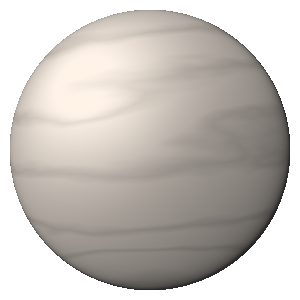
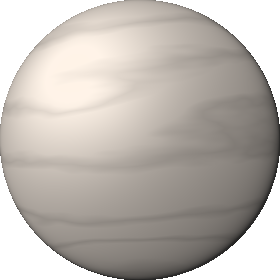
crop images

Changed region(s): [[0.0, 0.0, 1.0, 1.0]]

diff --git a/bundle.js b/bundle.js
@@ -1,6 +1,7 @@
 (function e(t,n,r){function s(o,u){if(!n[o]){if(!t[o]){var a=typeof require=="function"&&require;if(!u&&a)return a(o,!0);if(i)return i(o,!0);var f=new Error("Cannot find module '"+o+"'");throw f.code="MODULE_NOT_FOUND",f}var l=n[o]={exports:{}};t[o][0].call(l.exports,function(e){var n=t[o][1][e];return s(n?n:e)},l,l.exports,e,t,n,r)}return n[o].exports}var i=typeof require=="function"&&require;for(var o=0;o<r.length;o++)s(r[o]);return s})({1:[function(require,module,exports){
 let Grid = require('./grid.js').Grid
 let Stone = require('./stone.js').Stone
+let History = require('./history.js').History
 
 // 假设只 9x9
 class Board {
@@ -11,6 +12,7 @@ class Board {
     this.boardDom = []
 
     this.turn = 0
+    this.history = new History()
 
     // create board data
     for (let i = 0; i < this.size; i++) {
@@ -22,6 +24,8 @@ class Board {
         this.boardDom[i].push(null)
       }
     }
+
+    this.history.add(this.board)
   }
 
   // mark all stones as unchecked
@@ -37,7 +41,10 @@ class Board {
 
   checkCapture() {
     let color = (this.turn % 2 === 0) ? 'black' : 'white'
+    let currentBoard = this.board
+    let last = this.history.get(-1)
 
+    // check opponent
     for (let i = 0; i < this.size; i++) {
       for (let j = 0; j < this.size; j++) {
         let stone = this.board[i][j]
@@ -49,11 +56,14 @@ class Board {
       }
     }
 
+    // check self
     for (let i = 0; i < this.size; i++) {
       for (let j = 0; j < this.size; j++) {
         let stone = this.board[i][j]
         if (stone && !stone.checked) {
           if (stone.hasNoQi()) {
+            // suicide
+            // TODO: hint user not to put stone this way
             stone.removeStones()
           }
         }
@@ -123,7 +133,7 @@ module.exports = {
   Board
 }
 
-},{"./grid.js":2,"./stone.js":4}],2:[function(require,module,exports){
+},{"./grid.js":2,"./history.js":3,"./stone.js":5}],2:[function(require,module,exports){
 'use strict'
 
 let Stone = require('./stone.js').Stone
@@ -167,15 +177,44 @@ module.exports = {
   Grid
 }
 
-},{"./stone.js":4}],3:[function(require,module,exports){
+},{"./stone.js":5}],3:[function(require,module,exports){
+'use strict'
+
+class History {
+  constructor() {
+    this.history = []
+  }
+
+  add(board) {
+    this.history.push(board)
+  }
+
+  pop() {
+    this.history.pop()
+  }
+
+  get(num) {
+    if (num >= 0) {
+      return this.history[num]
+    } else {
+      return this.history[this.history.length - 1 + num]
+    }
+  }
+}
+
+module.exports = {
+  History
+}
+
+},{}],4:[function(require,module,exports){
 'use strict'
 let Stone = require('./stone.js').Stone
 let Board = require('./board.js').Board
 
-let board = new Board(19)
+let board = new Board(9)
 board.render($('.game'))
 
-},{"./board.js":1,"./stone.js":4}],4:[function(require,module,exports){
+},{"./board.js":1,"./stone.js":5}],5:[function(require,module,exports){
 'use strict'
 
 class Stone {
@@ -291,9 +330,7 @@ class Stone {
           qi += 1
         }
       }
-
-      console.log(this.row + ' ' + this.col + ': ' + qi)
-
+      
       return qi
     }
 
@@ -330,4 +367,4 @@ module.exports = {
   Stone: Stone
 }
 
-},{}]},{},[3]);
+},{}]},{},[4]);

diff --git a/less/stone.less b/less/stone.less
@@ -4,6 +4,7 @@
   position: absolute;
   margin: 0;
   padding: 0;
+  box-shadow: 10px 10px 25px 1px rgba(0,0,0,0.75);
 
   &.white {
     // background: #f6f6f6;
@@ -11,7 +12,7 @@
   }
 
   &.black {
-    // background: black;
+    // background: #000;
     background-size: cover;
   }
 }

diff --git a/js/board.js b/js/board.js
@@ -62,6 +62,7 @@ class Board {
         if (stone && !stone.checked) {
           if (stone.hasNoQi()) {
             // suicide
+            // TODO: hint user not to put stone this way
             stone.removeStones()
           }
         }

diff --git a/js/index.js b/js/index.js
@@ -2,5 +2,5 @@
 let Stone = require('./stone.js').Stone
 let Board = require('./board.js').Board
 
-let board = new Board(19)
+let board = new Board(9)
 board.render($('.game'))

diff --git a/bundle.css b/bundle.css
@@ -12,6 +12,7 @@ body {
   position: absolute;
   margin: 0;
   padding: 0;
+  box-shadow: 10px 10px 25px 1px rgba(0, 0, 0, 0.75);
 }
 .stone.white {
   background-size: cover;

diff --git a/js/stone.js b/js/stone.js
@@ -113,9 +113,7 @@ class Stone {
           qi += 1
         }
       }
-
-      console.log(this.row + ' ' + this.col + ': ' + qi)
-
+      
       return qi
     }
 
